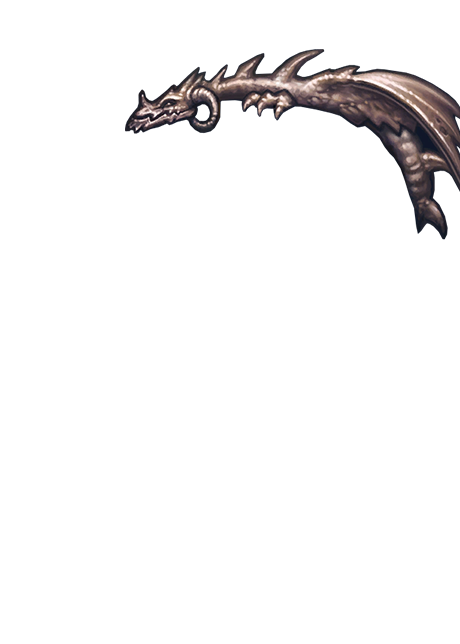
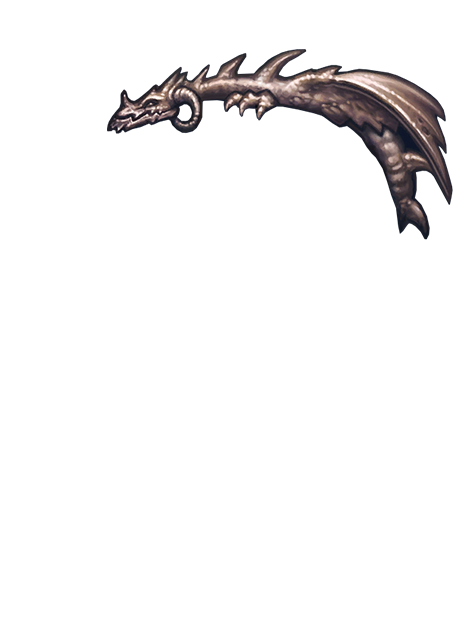
Finalize Hearthstone visuals and publish verified browser screenshots

Changed region(s): [[0.213, 0.0621, 1.0, 0.3727]]

diff --git a/js/frames/hearthstone.js b/js/frames/hearthstone.js
@@ -24,7 +24,14 @@ var Hearthstone = window.Hearthstone || (() => {
         }
         return fontPromise;
     }
-    const settings = () => ({...defaults, ...(card.hearthstone || {})});
+    const settings = () => {
+        const state={...defaults, ...(card.hearthstone || {})};
+        if(state.kind && state.kind!==kind) {
+            state.power=kind==='minion';
+            state.toughness=kind==='minion';
+        }
+        return state;
+    };
     function showControls() {
         let panel = document.getElementById('hearthstone-controls');
         if (!panel) {
@@ -57,6 +64,12 @@ var Hearthstone = window.Hearthstone || (() => {
             const input = document.getElementById('hs-'+key);
             if (input.type==='checkbox') input.checked=state[key];
             else input.value=state[key];
+            if(key==='power' || key==='toughness') {
+                input.disabled=kind==='spell';
+                if(kind==='spell') input.checked=false;
+                input.parentElement.style.opacity=kind==='spell'?'0.5':'1';
+                input.parentElement.title=kind==='spell'?'Minion components; select the Minions pack to use these.':'';
+            }
         });
         return panel;
     }

diff --git a/tests/hearthstone_browser.py b/tests/hearthstone_browser.py
@@ -19,6 +19,7 @@ parser = argparse.ArgumentParser()
 parser.add_argument('--url', default='http://localhost:4242/')
 parser.add_argument('--output', default='work/hearthstone-verification')
 parser.add_argument('--art', type=Path)
+parser.add_argument('--quick', action='store_true', help='Recheck Neutral, Druid and Mage plus every behavior check')
 args = parser.parse_args()
 out = Path(args.output)
 out.mkdir(parents=True, exist_ok=True)
@@ -66,10 +67,10 @@ async def export(page,name):
     return Image.open(io.BytesIO(raw)).convert('RGBA')
 
 
-def black_edges(im):
+def black_edges(im, margin_x=.05, margin_y=1/28):
     # Scan every pixel in all four bleed strips, plus irregular trim corners.
     w,h=im.size
-    mx=round(2010*.05);my=round(2814/28)
+    mx=round(2010*margin_x);my=round(2814*margin_y)
     for crop in [(0,0,w,my-1),(0,h-my+1,w,h),(0,0,mx-1,h),(w-mx+1,0,w,h)]:
         extrema=im.crop(crop).getextrema()
         assert extrema == ((0,0),(0,0),(0,0),(255,255)), (crop,extrema)
@@ -121,7 +122,7 @@ async def main():
                 await page.wait_for_function("card.version==='hearthstone-spell'")
                 await page.evaluate("card.text.title.text='Grovefire';card.text.type.text='Nature';card.text.rules.text='Deal 3 damage.\\n{t}: Add {r}{g}.'")
             tiles=[]
-            for cls in classes:
+            for cls in (['neutral','druid','mage'] if args.quick else classes):
                 await build(page,cls,'legendary',True)
                 assert await page.evaluate('card.frames.every(f=>f.image.complete&&f.image.naturalWidth>0)')
                 assert await page.evaluate("card.frames.some(f=>f.name.includes('Dragon'))")
@@ -137,7 +138,7 @@ async def main():
                 grid.paste(im,(x+10,y),im);d.text((x+12,y+388),cls,fill='white')
             grid.save(out/(kind+'-classes.jpg'),quality=92)
             grids[kind]=grid
-            print('Verified all 12',kind,'classes and full black bleed',flush=True)
+            print('Verified',len(tiles),kind,'classes and full black bleed',flush=True)
         # Disabling components excludes precisely those layers, preserving rules.
         for key in ['mana','scroll','type','dragon']:
             await page.locator('#hs-'+key).uncheck()
@@ -147,10 +148,21 @@ async def main():
         for key in ['mana','scroll','type','dragon']:
             await page.locator('#hs-'+key).check()
         await build(page,'mage','legendary',True)
+        # Exercise the existing text and frame editors through real UI inputs.
+        await page.locator('#creator-menu-tabs h3').filter(has_text='Text').click()
+        await page.locator('#text-options h4').filter(has_text='Title').click()
+        await page.locator('#text-editor').fill('Saved Grovefire')
+        assert await page.evaluate("card.text.title.text==='Saved Grovefire'")
+        await page.locator('#creator-menu-tabs h3').filter(has_text='Frame').click()
+        await page.locator('#frame-list .frame-element').first.click()
+        await page.locator('#frame-editor-x').fill('8')
+        await page.locator('#frame-editor-x').dispatch_event('change')
+        await page.locator('#frame-editor-opacity').fill('93')
+        await page.locator('#frame-editor-opacity').dispatch_event('change')
+        await page.locator('.frame-element-editor-close').click()
+        assert await page.evaluate('card.frames[0].opacity==93 && card.frames[0].bounds.x===8/card.width')
         # Manual frame layer editing: bounds and opacity survive save/reload.
         await page.evaluate('''() => {
-            card.frames[0].bounds={x:0.004,y:0,width:0.992,height:1};
-            card.frames[0].opacity=93;
             card.text.title.x+=0.003;
             const data=JSON.parse(JSON.stringify(card));
             data.frames.forEach(f=>{delete f.image;f.masks.forEach(m=>delete m.image)});
@@ -175,7 +187,7 @@ async def main():
         await fresh.wait_for_function('card.marginX===0.044')
         await settle(fresh)
         assert await fresh.evaluate("card.version==='hearthstone-spell'")
-        await export(fresh,'generic-margin-spell')
+        black_edges(await export(fresh,'generic-margin-spell'), .044, 1/35)
         # Return to the regular MtG pack and exercise its existing text layout.
         await fresh.select_option('#selectFrameGroup','Standard-3')
         await fresh.wait_for_function("card.version==='m15Regular'")
@@ -194,7 +206,7 @@ async def main():
         await fresh.select_option('#selectFramePack','HearthstoneMinion')
         await fresh.wait_for_function("card.version==='hearthstone-minion'")
         await build(fresh,'druid','legendary',True)
-        await fresh.evaluate("card.text.title.text='Keeper of the Grove';card.text.type.text='Beast';card.text.rules.text='{bold}Choose One —{/bold}\\nDeal 2 damage; or\\n{t}: Add {g}{g}.'")
+        await fresh.evaluate("card.text.title.text='Keeper of the Grove';card.text.type.text='Beast';card.text.power.text='2';card.text.toughness.text='4';card.text.rules.text='{bold}Choose One —{/bold}\\nDeal 2 damage; or\\n{t}: Add {g}{g}.'")
         await settle(fresh)
         await fresh.screenshot(path=str(out/'editor-minion.png'))
         black_edges(await export(fresh,'legendary-minion'))
@@ -206,8 +218,9 @@ async def main():
         await fresh.screenshot(path=str(out/'mobile-controls.png'))
         assert not errors, errors
         assert not failed, failed
-        (out/'results.json').write_text(json.dumps({'classes':24,'symbols':['t','g'],'bleed':'1/8 inch; all four strips and trim corners opaque black','save_reload':'text, art, positions, layer opacity, settings preserved','png_download':[2211,3015],'mobile_width':390,'page_errors':errors,'failed_extension_requests':failed},indent=2))
+        (out/'results.json').write_text(json.dumps({'classes':6 if args.quick else 24,'symbols':['t','g'],'bleed':'1/8 inch; all four strips and trim corners opaque black','save_reload':'text, art, positions, layer opacity, settings preserved','png_download':[2211,3015],'mobile_width':390,'page_errors':errors,'failed_extension_requests':failed},indent=2))
         await browser.close()
-    print('PASS: browser visuals, 24 class variants, components, MtG symbols, bleed, save/reload, download, mobile and regular MtG switch',flush=True)
+    print('PASS: browser visuals,',6 if args.quick else 24,'class variants, components, MtG symbols, bleed, save/reload, download, mobile and regular MtG switch',flush=True)
 
-asyncio.run(main())
+if __name__ == '__main__':
+    asyncio.run(main())

diff --git a/tools/build_hearthstone_assets.py b/tools/build_hearthstone_assets.py
@@ -62,7 +62,7 @@ for kind in ('minion', 'spell'):
         'name': (323 if kind=='minion' else 316, 0),
         'description-area': (407,0) if kind=='minion' else (-20,-1),
         'kind': (546,7) if kind=='minion' else (-21,0),
-        'dragon': (21,50) if kind=='minion' else (49,68),
+        'dragon': (21,50) if kind=='minion' else (49,50),
         'rarity-mask': (370,13) if kind=='minion' else (379,0),
     }
     for part,(y,dx) in parts.items():

diff --git a/docs/hearthstone.md b/docs/hearthstone.md
@@ -1,5 +1,7 @@
 # Hearthstone frames
 
+![Legendary minion and spell with MtG symbols and black bleed](images/hearthstone-preview.jpg)
+
 In **Frame → Other Games → Hearthstone**, choose **Hearthstone Minions** or
 **Hearthstone Spells**. Select a class, rarity and components, then click
 **Build / replace Hearthstone layers**. This assembles the card; choosing a frame
@@ -74,3 +76,14 @@ bleed strips, irregular trim corners, fresh-page save/reload, edited layer
 positions and opacity, generic margins, switching back to regular MtG, PNG
 download and mobile controls. Screenshots and results are written under
 `work/hearthstone-verification` (override with `--output`).
+
+The completed browser run passed all 24 variants with zero page errors or failed
+extension asset requests. A final focused run also exercised the actual text and
+frame editor inputs, rescanned the generic margins, and rechecked the adjusted
+spell dragon. See [recorded results](hearthstone-verification.json).
+
+Browser screenshots: [minion editor](images/hearthstone-editor-minion.png),
+[spell editor](images/hearthstone-editor-spell.png),
+[mobile controls](images/hearthstone-mobile-controls.png),
+[all minion classes](images/hearthstone-minion-classes.jpg),
+[all spell classes](images/hearthstone-spell-classes.jpg).
